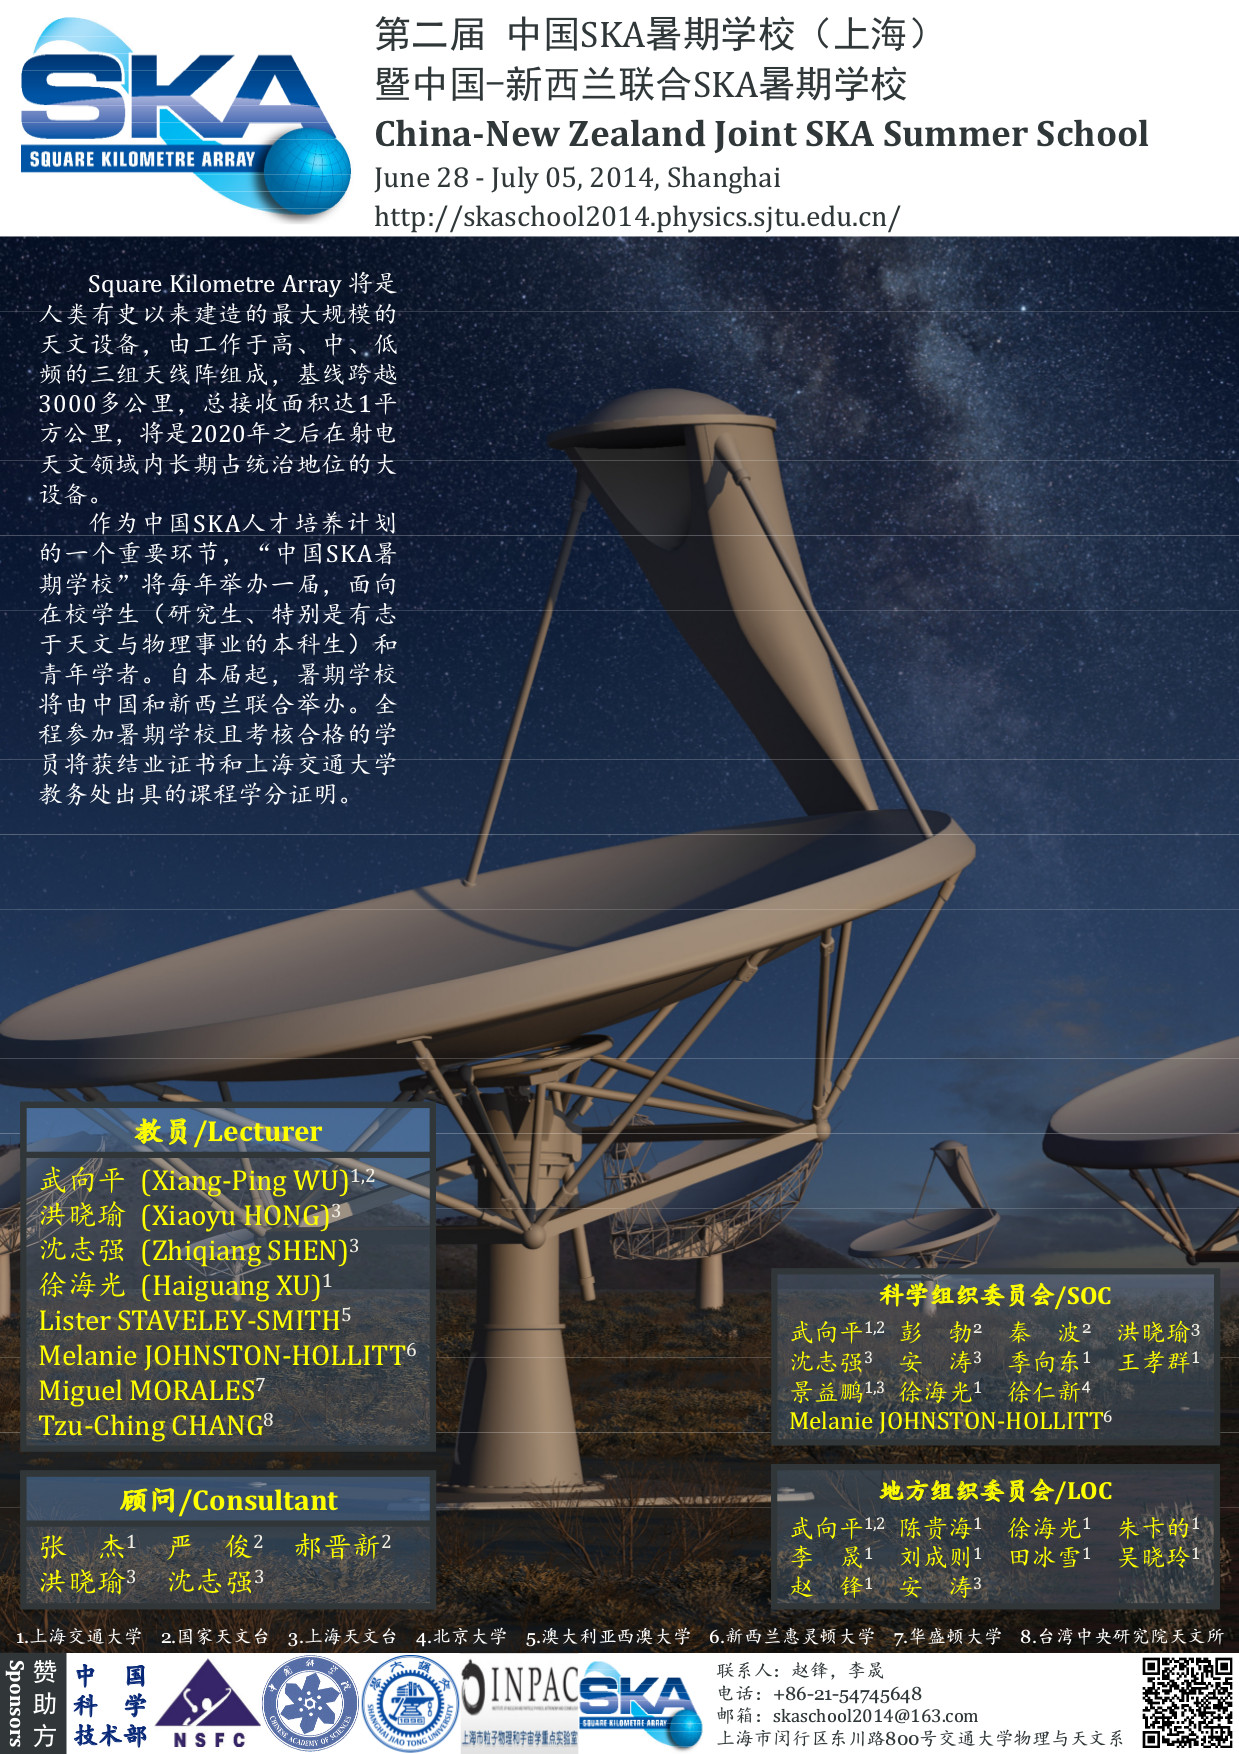
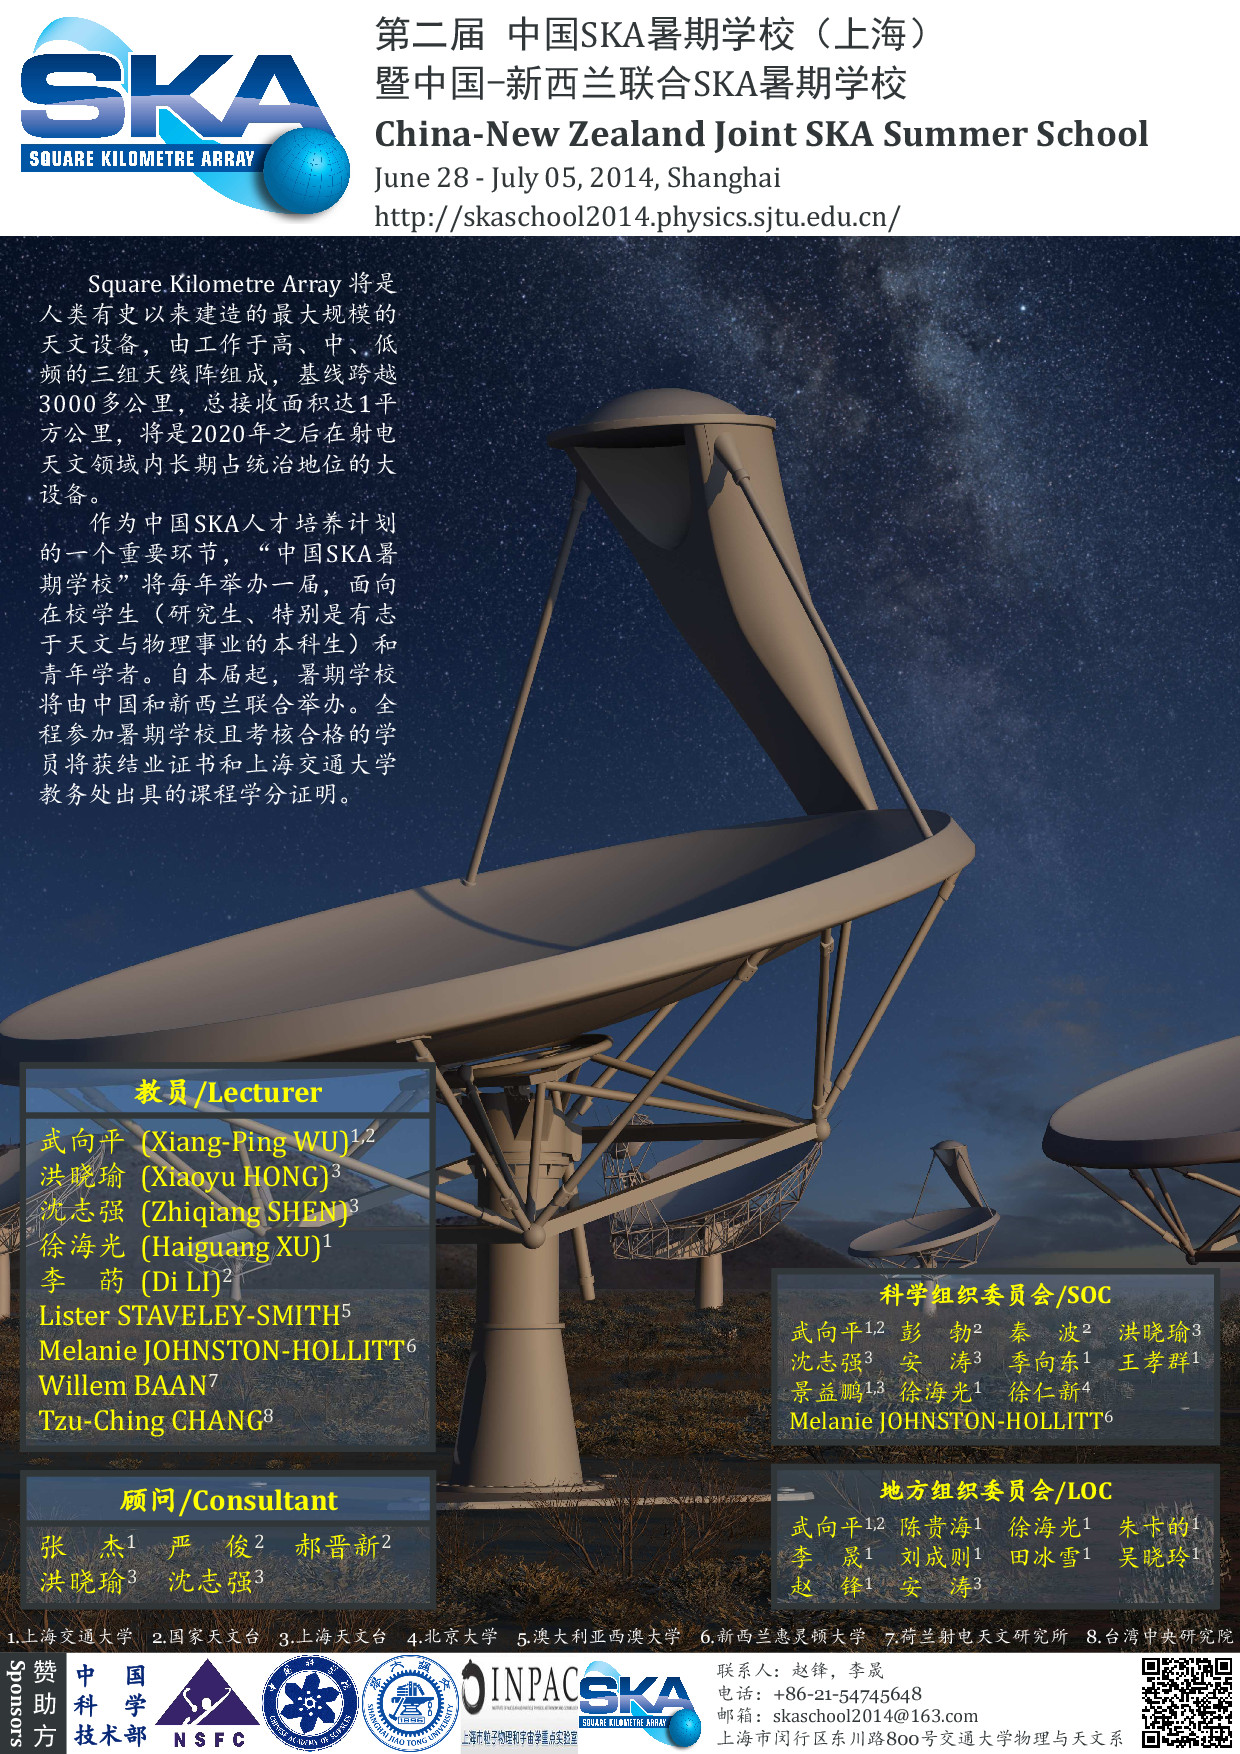
* upaded display format of model Notice 'notice/models.py' * updated 'archive/urls.py', shortened the url, added a redirect * updated poster image: 'skaschool-poster.jpg' * updated the lecturer information of 'page/introduction.html'

diff --git a/page/templates/page/introduction.html b/page/templates/page/introduction.html
@@ -65,10 +65,11 @@
       <li>洪晓瑜（上海天文台台长）</li>
       <li>沈志强（上海天文台副台长、杰出青年）</li>
       <li>徐海光（上海交通大学教授、杰出青年）</li>
-      <li>Lister Staveley-Smith（澳大利亚西澳大学）</li>
-      <li>Melanie Johnston-Hollitt（新西兰惠灵顿大学）</li>
-      <li>Miguel Morales（美国华盛顿大学）</li>
-      <li>Tzu-Ching Chang（台湾中央研究院天文所）</li>
+      <li>李菂（国家天文台研究员、千人计划）</li>
+      <li>Lister STAVELEY-SMITH（澳大利亚西澳大学）</li>
+      <li>Melanie JOHNSTON-HOLLITT（新西兰惠灵顿大学）</li>
+      <li>Willem BAAN（荷兰射电天文研究所）</li>
+      <li>Tzu-Ching CHANG（台湾中央研究院天文所）</li>
     </ul>
 
     <h3 id="consultant">顾问</h3>

diff --git a/archive/urls.py b/archive/urls.py
@@ -4,13 +4,17 @@
 #
 
 from django.conf.urls import patterns, include, url
+from django.views.generic.base import RedirectView
+from django.core.urlresolvers import reverse_lazy
 
 from archive.views import ArchiveView
 
 
 urlpatterns = patterns('',
     # notice list view
-    url(r'^archive/all$', ArchiveView.as_view(),
+    url(r'^all$', ArchiveView.as_view(),
         name='archive_all'),
+    url(r'^archive/all$',
+        RedirectView.as_view(url=reverse_lazy('archive_all'))),
 )
 

diff --git a/notice/models.py b/notice/models.py
@@ -26,7 +26,7 @@ class Notice(models.Model):
         ordering = ['-pubtime', 'id']
 
     def __unicode__(self):
-        return u'Notice at %s' % self.pubtime.isoformat()
+        return u'Notice %s: %s' % (self.category.category_name, self.title)
 
     def show_pubtime(self):
         # used in 'list_notice.html' template
